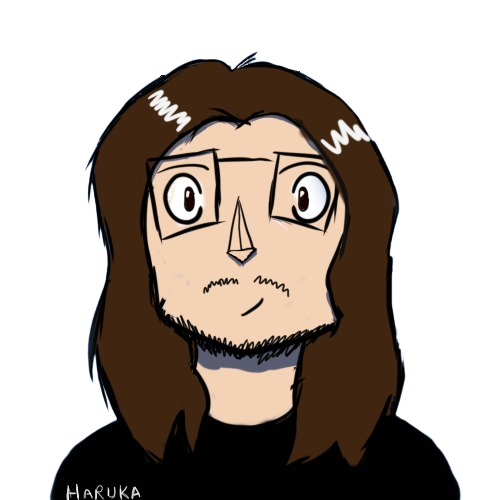
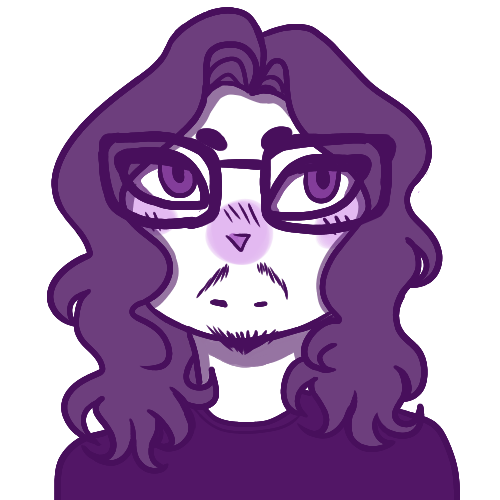
tirei o desenho merda

diff --git a/src/components/Contact/Info.jsx b/src/components/Contact/Info.jsx
@@ -2,6 +2,8 @@ import { useTranslation } from 'react-i18next'
 
 const Info = () => {
 	const { t } = useTranslation()
+	const email = 'thomaslrgregorio@gmail.com'
+	const phone = '+5511942670844'
 	return (
 		<ul data-aos="slide-from-top" className="contact__info">
 			<li>
@@ -10,13 +12,11 @@ const Info = () => {
 			</li>
 			<li>
 				<i className="bi bi-envelope-fill"></i>
-				<a href="mailto:thomaslrgregorio@gmail.com">
-					thomaslrgregorio@gmail.com
-				</a>
+				<a href={`mailto:${email}`}>{email}</a>
 			</li>
 			<li>
 				<i className="bi bi-telephone-fill"></i>
-				<a href="tel:+5511942670844">+5511942670844</a>
+				<a href={`tel:${phone}`}>{phone}</a>
 			</li>
 		</ul>
 	)

diff --git a/index.html b/index.html
@@ -2,7 +2,11 @@
 <html lang="pt">
 	<head>
 		<meta charset="UTF-8" />
-		<link rel="icon" type="image/svg+xml" href="/assets/imgs/favicon.png" />
+		<link
+			rel="icon"
+			type="image/svg+xml"
+			href="/assets/imgs/profile-image.png"
+		/>
 		<meta name="viewport" content="width=device-width, initial-scale=1.0" />
 		<title>Portfolio - Thomas Luizon</title>
 	</head>
